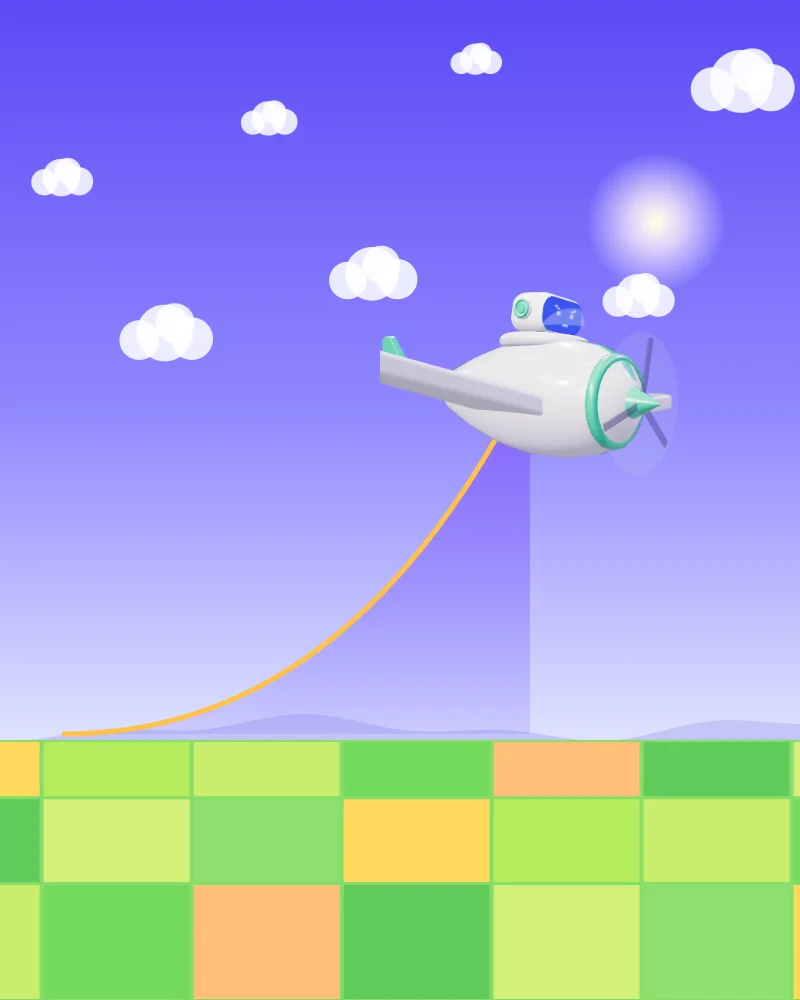
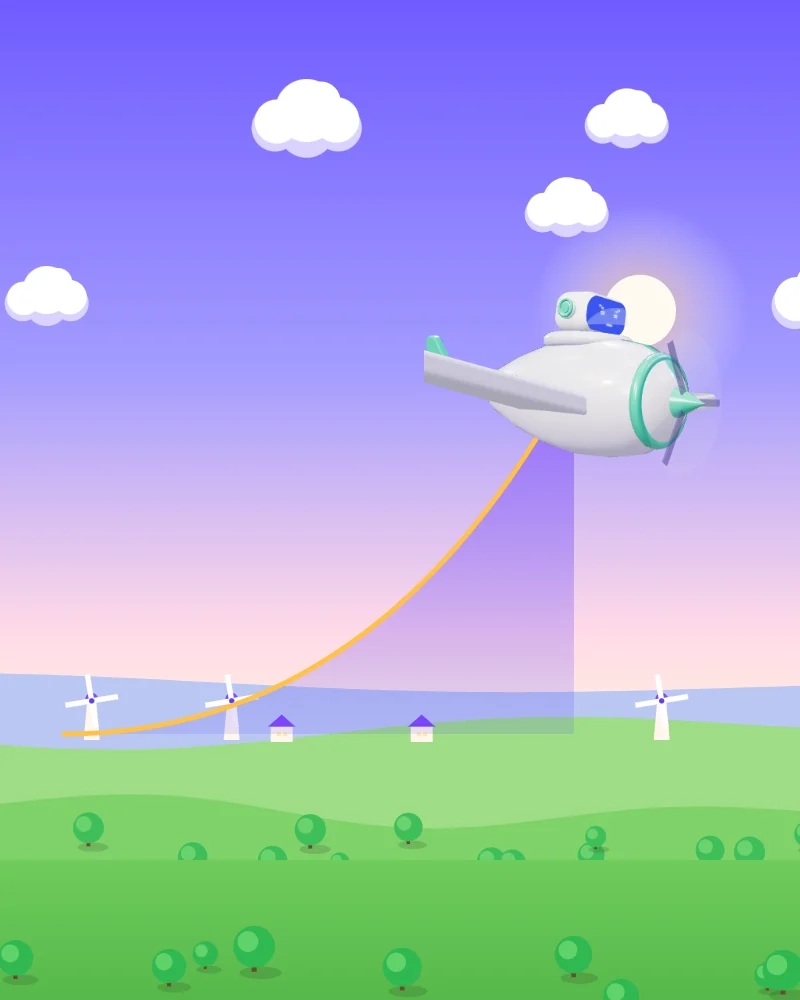
Fly High: the countryside world, no lettered hangar, the plane clear of the multiplier

diff --git a/Game #3 - Fly High/game.js b/Game #3 - Fly High/game.js
@@ -217,23 +217,74 @@ const stage = $('#stage'), cv = $('#cv'), ctx = cv.getContext('2d');
 let W = 0, H = 0, dpr = 1, HY = 0;
 const view = { gx: 0, speed: 0, flyT0: 0, awayT0: 0, wins: [] };
 const clouds = Array.from({ length: 9 }, (_, i) => ({ x: (i * 0.137 % 1), y: 0.08 + (i * 0.29 % 0.5), s: 0.6 + (i * 0.43 % 0.8), p: 0.3 + (i * 0.17 % 0.7) }));
-const FIELDS = ['#b5ec5c', '#ffd95c', '#8ee070', '#d4f07a', '#5fcb5a', '#ffc07a', '#74db5e', '#c9ee6e'];
-const HANGAR = new Image(); HANGAR.src = 'assets/airfield-hangar.png';
+const TAU = Math.PI * 2;
+const hsh = n => { const x = Math.sin(n * 127.1 + 311.7) * 43758.5453; return x - Math.floor(x); };   // a fixed scatter for trees and houses
+const wrapX = (x, span) => ((x % span) + span) % span;
+const lin = (y0, y1, stops) => { const l = ctx.createLinearGradient(0, y0, 0, y1); stops.forEach(([o, c]) => l.addColorStop(o, c)); return l; };
 function layout() {
   W = stage.clientWidth; H = stage.clientHeight; dpr = Math.min(2, devicePixelRatio || 1);
   cv.width = Math.round(W * dpr); cv.height = Math.round(H * dpr); HY = H * 0.74;
 }
 new ResizeObserver(layout).observe(stage);
-function cloud(x, y, s, a) {
-  ctx.globalAlpha = a; ctx.fillStyle = '#ffffff';
-  for (const [dx, dy, r] of [[0, 0, 1], [-0.9, 0.25, 0.7], [0.95, 0.2, 0.75], [0.35, -0.35, 0.7]]) { ctx.beginPath(); ctx.arc(x + dx * 26 * s, y + dy * 26 * s, r * 26 * s, 0, 7); ctx.fill(); }
-  ctx.globalAlpha = 1;
+// The countryside (Tornike's pick, 2026-10-26): layered rolling hills, round trees, a village with windmills, and a
+// plain barrel hangar in brand stripes beside the runway (no letters). Nearer layers stream past faster.
+function puff(x, y, s) {   // a cartoon cumulus: lit top, soft violet base
+  ctx.fillStyle = '#d9d3ff'; for (const [dx, dy, r] of [[-1, 0.3, 0.75], [0, 0.35, 0.9], [1, 0.3, 0.75]]) { ctx.beginPath(); ctx.arc(x + dx * 30 * s, y + dy * 30 * s, r * 30 * s, 0, TAU); ctx.fill(); }
+  ctx.fillStyle = '#ffffff'; for (const [dx, dy, r] of [[-0.95, 0.1, 0.7], [0, -0.25, 1], [0.95, 0.05, 0.72], [0.45, -0.55, 0.62]]) { ctx.beginPath(); ctx.arc(x + dx * 30 * s, y + dy * 30 * s, r * 30 * s, 0, TAU); ctx.fill(); }
+}
+function hills(y0, amp, f, ph, col) {
+  ctx.fillStyle = col; ctx.beginPath(); ctx.moveTo(0, H);
+  for (let x = 0; x <= W + 10; x += 10) ctx.lineTo(x, y0 - amp * (0.6 + 0.4 * Math.sin((x + ph) * f) * Math.cos((x + ph) * f * 0.37)));
+  ctx.lineTo(W, H); ctx.closePath(); ctx.fill();
+}
+function tree(x, y, r, dark, light) {
+  ctx.fillStyle = 'rgba(40,60,30,.18)'; ctx.beginPath(); ctx.ellipse(x + r * 0.3, y + r * 0.15, r, r * 0.3, 0, 0, TAU); ctx.fill();
+  ctx.fillStyle = '#6b4a2e'; ctx.fillRect(x - r * 0.12, y - r * 0.6, r * 0.24, r * 0.7);
+  ctx.fillStyle = dark; ctx.beginPath(); ctx.arc(x, y - r * 1.1, r, 0, TAU); ctx.fill();
+  ctx.fillStyle = light; ctx.beginPath(); ctx.arc(x - r * 0.3, y - r * 1.35, r * 0.5, 0, TAU); ctx.fill();
+}
+function house(x, y, w, roof) {
+  const h = w * 0.7; ctx.fillStyle = '#fff6ee'; ctx.fillRect(x - w / 2, y - h, w, h);
+  ctx.fillStyle = roof; ctx.beginPath(); ctx.moveTo(x - w * 0.62, y - h); ctx.lineTo(x, y - h - w * 0.55); ctx.lineTo(x + w * 0.62, y - h); ctx.closePath(); ctx.fill();
+  ctx.fillStyle = '#ffe9a8'; ctx.fillRect(x - w * 0.22, y - h * 0.62, w * 0.18, w * 0.18); ctx.fillRect(x + w * 0.06, y - h * 0.62, w * 0.18, w * 0.18);
+}
+function windmill(x, y, s, now) {
+  ctx.fillStyle = '#fff6ee'; ctx.beginPath(); ctx.moveTo(x - 9 * s, y); ctx.lineTo(x - 5 * s, y - 46 * s); ctx.lineTo(x + 5 * s, y - 46 * s); ctx.lineTo(x + 9 * s, y); ctx.closePath(); ctx.fill();
+  ctx.fillStyle = '#8447fb'; ctx.beginPath(); ctx.arc(x, y - 46 * s, 7 * s, Math.PI, 0); ctx.fill();
+  ctx.save(); ctx.translate(x, y - 44 * s); ctx.rotate(reduced ? 0.4 : now / 900); ctx.fillStyle = '#ffffff'; for (let i = 0; i < 4; i++) { ctx.rotate(TAU / 4); ctx.fillRect(-3 * s, 0, 6 * s, 30 * s); } ctx.restore();
+  ctx.fillStyle = '#5a3ffc'; ctx.beginPath(); ctx.arc(x, y - 44 * s, 3 * s, 0, TAU); ctx.fill();
+}
+function hangar(x, y, w) {   // a barrel hangar in the brand's violet stripe, door open; no letters
+  const h = w * 0.55; ctx.fillStyle = '#f4f2ff'; ctx.beginPath(); ctx.moveTo(x, y); ctx.lineTo(x, y - h * 0.4); ctx.quadraticCurveTo(x + w / 2, y - h * 1.45, x + w, y - h * 0.4); ctx.lineTo(x + w, y); ctx.closePath(); ctx.fill();
+  ctx.fillStyle = '#8447fb'; ctx.fillRect(x, y - h * 0.42, w, h * 0.1); ctx.fillStyle = '#2b2452'; ctx.fillRect(x + w * 0.3, y - h * 0.32, w * 0.4, h * 0.32);
+  ctx.fillStyle = 'rgba(255,255,255,.35)'; for (let i = 1; i < 4; i++) ctx.fillRect(x + w * 0.3 + w * 0.1 * i, y - h * 0.32, 2, h * 0.32);
+}
+function runway(x, y, w) {
+  ctx.fillStyle = '#e7e4f6'; ctx.fillRect(x, y - 5, w, 16); ctx.fillStyle = '#8447fb'; ctx.fillRect(x, y + 9, w, 3);
+  ctx.fillStyle = '#ffffff'; for (let k = x + 18; k < x + w - 20; k += 46) ctx.fillRect(k, y + 2, 22, 2.5);
+  ctx.fillStyle = '#7ff3ff'; for (let k = x + 6; k < x + w; k += 34) { ctx.beginPath(); ctx.arc(k, y - 6, 2.2, 0, TAU); ctx.fill(); }
+}
+function countryside(now, gx) {
+  ctx.fillStyle = lin(0, HY, [[0, '#6f5cff'], [0.5, '#a49cff'], [0.85, '#ffd9e8'], [1, '#fff1df']]); ctx.fillRect(0, 0, W, HY + 2);
+  const sr = Math.min(W, H) * 0.045, sx = W * 0.8, sy = HY * 0.42, sg = ctx.createRadialGradient(sx, sy, sr * 0.2, sx, sy, sr * 3);
+  sg.addColorStop(0, '#fffaf0'); sg.addColorStop(0.25, 'rgba(255,214,170,.55)'); sg.addColorStop(1, 'rgba(255,255,255,0)'); ctx.fillStyle = sg; ctx.fillRect(sx - sr * 3, sy - sr * 3, sr * 6, sr * 6);
+  ctx.fillStyle = '#fffaf0'; ctx.beginPath(); ctx.arc(sx, sy, sr, 0, TAU); ctx.fill();
+  const k = W < 600 ? 0.7 : 1;
+  for (let i = 0; i < 6; i++) puff(wrapX(i * 260 - gx * 0.12, W + 300) - 150, HY * (0.16 + 0.12 * (i % 3)), (0.8 + 0.25 * (i % 2)) * k);
+  hills(HY - H * 0.02, H * 0.05, 0.004, gx * 0.15, '#b9c7f2');
+  hills(HY + H * 0.02, H * 0.05, 0.006, gx * 0.3 + 400, '#9fdc86');
+  for (let i = 0; i < 9; i++) { const x = wrapX(i * 190 - gx * 0.3, W + 200) - 100, y = HY; if (i % 3 === 0) windmill(x, y, Math.min(1.1, W / 900), now); else if (i % 3 === 1) house(x, y + 2, (18 + 4 * (i % 2)) * k, ['#ff7a93', '#8447fb', '#ffb347'][i % 3]); }
+  hills(HY + H * 0.1, H * 0.05, 0.009, gx * 0.6 + 900, '#7fd36a');
+  for (let i = 0; i < 14; i++) tree(wrapX(i * 110 + hsh(i) * 60 - gx * 0.6, W + 160) - 80, HY + H * 0.1 + hsh(i + 7) * H * 0.04, (9 + hsh(i) * 7) * k, '#3fbf5a', '#6ad36d');
+  ctx.fillStyle = lin(HY + H * 0.12, H, [[0, '#6fcb5c'], [1, '#56b84a']]); ctx.fillRect(0, HY + H * 0.12, W, H);
+  const rx = W * 0.02 - gx; if (rx + W > 0) { runway(rx, HY, W * 0.9); hangar(rx + W * 0.6, HY - 4, Math.min(170, W * 0.24)); }   // the airfield slides away once the plane is up
+  for (let i = 0; i < 18; i++) tree(wrapX(i * 80 + hsh(i + 3) * 40 - gx * 1.1, W + 120) - 60, HY + H * 0.22 + hsh(i + 11) * (H - HY) * 0.55, (12 + hsh(i) * 9) * k, '#2fb850', '#5fd26a');
 }
 // Where the plane is: it climbs along the curve from the runway to the upper right, then holds there with a gentle bob
 // while the world streams past (as Aviator's does). p is 0 to 1 over the first 7 seconds.
 function tipAt(t) {
   const ox = W * 0.08, oy = HY - 6, p = clamp(t / 7000, 0, 1), e = easeOut(p);
-  const x = lerp(ox, W * (W < 600 ? 0.66 : 0.72), e), y = lerp(oy, H * (W < 600 ? 0.36 : 0.3), e * e);
+  const x = lerp(ox, W * (W < 600 ? 0.62 : 0.78), e), y = lerp(oy, H * (W < 600 ? 0.5 : 0.3), e * e);   // clear of the multiplier: further right on wide screens, lower on phones
   const bob = p >= 1 && !reduced ? Math.sin(t / 700) * H * 0.02 : 0;
   return { ox, oy, x, y: y + bob, p };
 }
@@ -242,28 +293,7 @@ function draw(now) {
   const t = R && (R.phase === 'fly' || R.phase === 'end') ? (R.phase === 'end' ? R.endT0 : now) - R.t0 : 0;
   const goal = R && R.phase === 'fly' ? 1 : R && R.phase === 'end' ? 0.6 : 0;
   view.speed += (goal - view.speed) * 0.04; view.gx += view.speed * (reduced ? 1.2 : 3.2);
-  // sky, sun and far hills
-  const sky = ctx.createLinearGradient(0, 0, 0, HY); sky.addColorStop(0, '#5b4af6'); sky.addColorStop(0.55, '#8f88ff'); sky.addColorStop(1, '#dfe2ff');
-  ctx.fillStyle = sky; ctx.fillRect(0, 0, W, HY + 1);
-  const sun = ctx.createRadialGradient(W * 0.82, HY * 0.3, 4, W * 0.82, HY * 0.3, 70); sun.addColorStop(0, 'rgba(255,250,235,1)'); sun.addColorStop(0.35, 'rgba(255,240,250,.75)'); sun.addColorStop(1, 'rgba(255,240,250,0)');
-  ctx.fillStyle = sun; ctx.fillRect(W * 0.82 - 70, HY * 0.3 - 70, 140, 140);
-  for (const c of clouds) { const x = ((c.x * (W + 200) - view.gx * c.p * 0.6) % (W + 200) + W + 200) % (W + 200) - 100; cloud(x, c.y * HY, c.s * (W < 600 ? 0.7 : 1), 0.85); }
-  ctx.fillStyle = '#c3c6f7'; ctx.beginPath(); ctx.moveTo(0, HY + 1);
-  for (let x = 0; x <= W + 8; x += 8) ctx.lineTo(x, HY - 12 - 9 * Math.sin((x + view.gx * 0.15) * 0.012) - 5 * Math.sin((x + view.gx * 0.15) * 0.031));
-  ctx.lineTo(W, HY + 1); ctx.fill();
-  // the meadow: patchwork fields streaming left, then the runway the plane took off from
-  ctx.fillStyle = '#86dc68'; ctx.fillRect(0, HY, W, H - HY);
-  const fw = 150, off = view.gx % fw, base = Math.floor(view.gx / fw);
-  for (let k = -1; k * fw - off < W + fw; k++) {
-    const i = base + k, x = k * fw - off;
-    for (let r = 0; r < 3; r++) { const y0 = HY + (H - HY) * [0, 0.22, 0.55][r], y1 = HY + (H - HY) * [0.22, 0.55, 1][r]; ctx.fillStyle = FIELDS[((i * 7 + r * 3) % FIELDS.length + FIELDS.length) % FIELDS.length]; ctx.fillRect(x + 2, y0 + 2, fw - 4, y1 - y0 - 3); }
-  }
-  const rx = W * 0.02 - view.gx * 1.0;   // the runway and hangar slide away once the plane is up
-  if (rx + W * 0.9 > 0) {
-    ctx.fillStyle = '#dcd8f0'; ctx.fillRect(rx, HY - 4, W * 0.9, 14);
-    ctx.fillStyle = '#ffffff'; for (let x = rx + 16; x < rx + W * 0.9 - 20; x += 46) ctx.fillRect(x, HY + 2, 22, 2);
-    if (HANGAR.complete && HANGAR.naturalWidth) { const hw = Math.min(150, W * 0.22), hh = hw * HANGAR.naturalHeight / HANGAR.naturalWidth; ctx.drawImage(HANGAR, rx + W * 0.62, HY - hh + 4, hw, hh); }
-  }
+  countryside(now, view.gx);
   // the climb: a filled curve from the runway to the plane, like Aviator's
   const tp = tipAt(t), away = R && R.phase === 'end' ? clamp((now - view.awayT0) / 900, 0, 1) : 0;
   if (R && (R.phase === 'fly' || R.phase === 'end')) {

diff --git a/Game #3 - Fly High/style.css b/Game #3 - Fly High/style.css
@@ -293,7 +293,7 @@ button{cursor:pointer}
 @media (max-width:760px){
   .bets{grid-template-columns:1fr;gap:10px}
   .pilot{bottom:10px}
-  .readout{top:42%}
+  .readout{top:26%}
   .hist{top:54px;left:10px;right:10px}
 }
 @media (max-width:480px){ .bet-main{grid-template-columns:minmax(0,1.3fr) minmax(0,1fr);gap:8px} .bet .bet-row{grid-template-columns:34px minmax(0,1fr) 34px;gap:4px} .bet .step{height:42px;font-size:20px} .bet .money-in input{height:42px} }   /* the amount needs the room: 200.00 in full at 320 px */

diff --git a/HANDOFF.md b/HANDOFF.md
@@ -35,7 +35,7 @@ Live site: https://brainer.games (Cloudflare zone brainer.games: apex A/AAAA to 
 
 - **Fly High** (working title, `Game #3 - Fly High/`, published at `/fly-high/`, Game #2 on the site) is Aviator one to one with the Brainer and its world: rounds run on their own (a 6 s betting window, take-off, the multiplier e^(0.09 × seconds), a 3.2 s pause after it flies away); two bet panels, each with Bet, Cancel, Cash out, auto bet and auto cash-out; a history of the last rounds. It flies away at 0.98 ÷ (1 − u) rounded down to the cent (1.00× to 10,000×), from HMAC-SHA256(server seed, "client seed:nonce"), so every cash-out point returns 98% before rounding and the $10,000 max win. Same shell, client-seed sheet, 18+ check, intro (wordmark `fly`) and 3D plane as Plane Crash. No list of other players: invented players would nudge. Its card is a frame of the game mid-climb (`Brainer 3D/renders/cards/fly-high.png`).
 - **FogRush is hidden** from the site (`hidden: true` in `Website/assets/js/data.js`) and from the deploy (`.github/workflows/pages.yml`). Its code and today's fixes stay in `Game #2 - FogRush/`; set the flag back and restore the copy step to bring it back.
-- **Tornike does not like the world's look yet,** including the "B" on the hangar. A world redesign is next; show him options before building.
+- **World: countryside (Tornike's pick from three mockups, 2026-10-26).** Fly High paints it in 2D (`countryside()` in its game.js): layered rolling hills, round trees, a village with windmills, a plain barrel hangar in the violet stripe, no letters anywhere. Plane Crash still has the old patchwork meadow and the "B" hangar sprite; move it to the countryside next.
 
 ## Where things live
 
